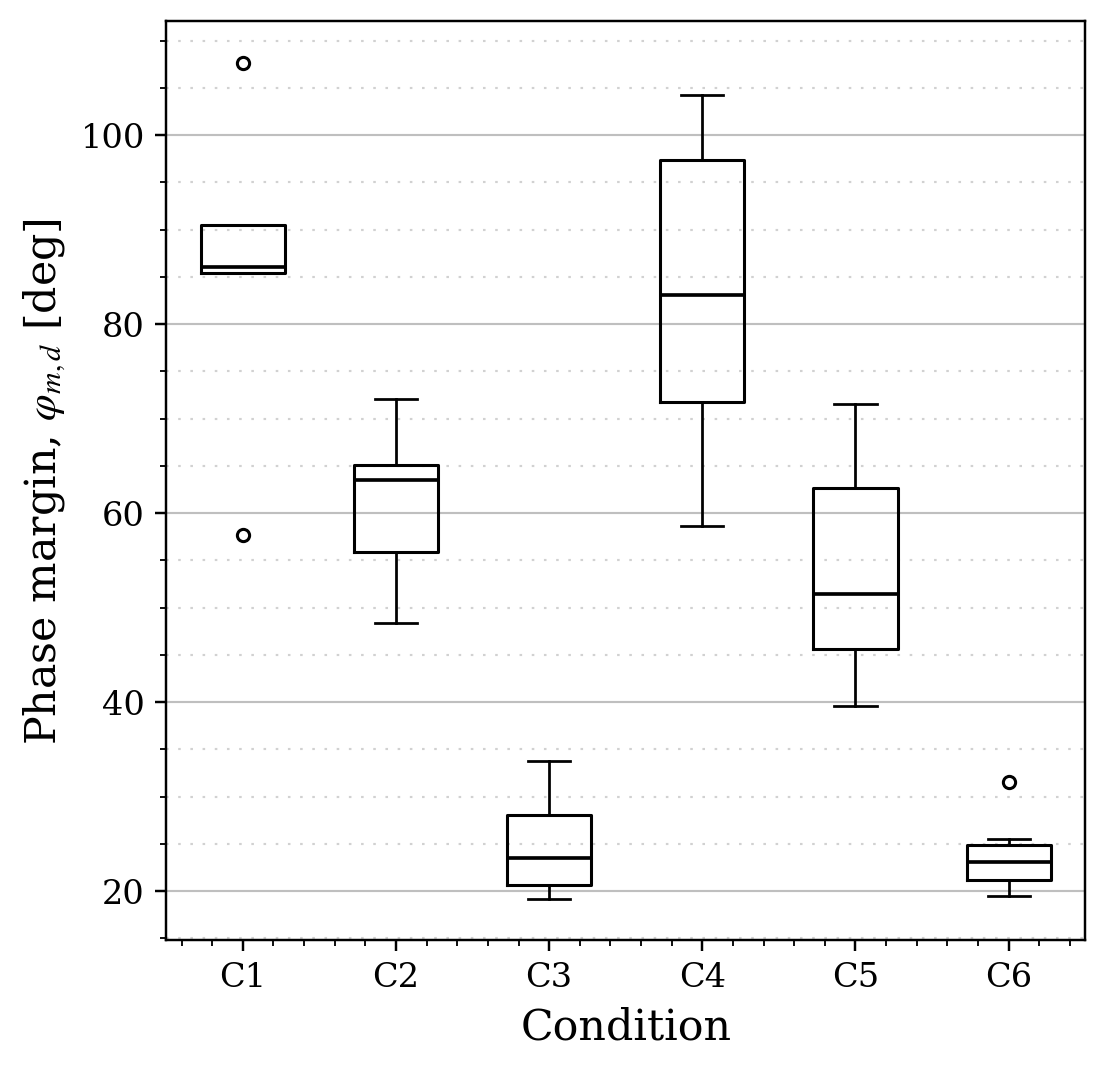
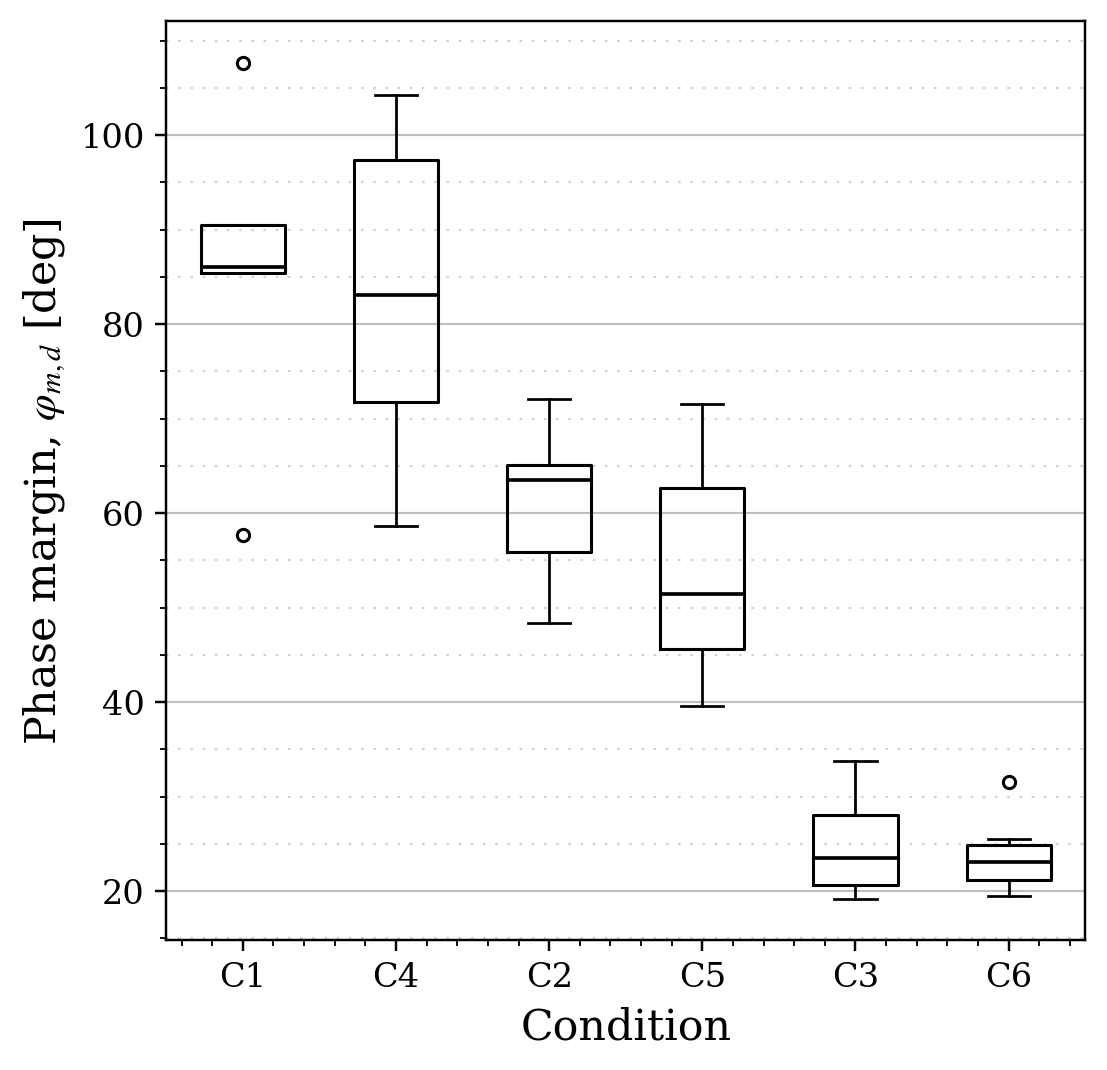
Nonparametric boxplots fixed

diff --git a/nonparametric_analysis_main.py b/nonparametric_analysis_main.py
@@ -519,7 +519,7 @@ def setup_boxplot_axis(ax, ylabel: str):
     ax.set_box_aspect(1)
 
 def plot_boxplots_all_conditions(df: pd.DataFrame, outdir: Path = OUTPUT_DIR):
-    conditions_all = [1, 2, 3, 4, 5, 6]
+    conditions_all = [1, 4, 2, 5, 3, 6]
     labels_all = [short_condition_label(c) for c in conditions_all]
 
     boxplot_specs = [
